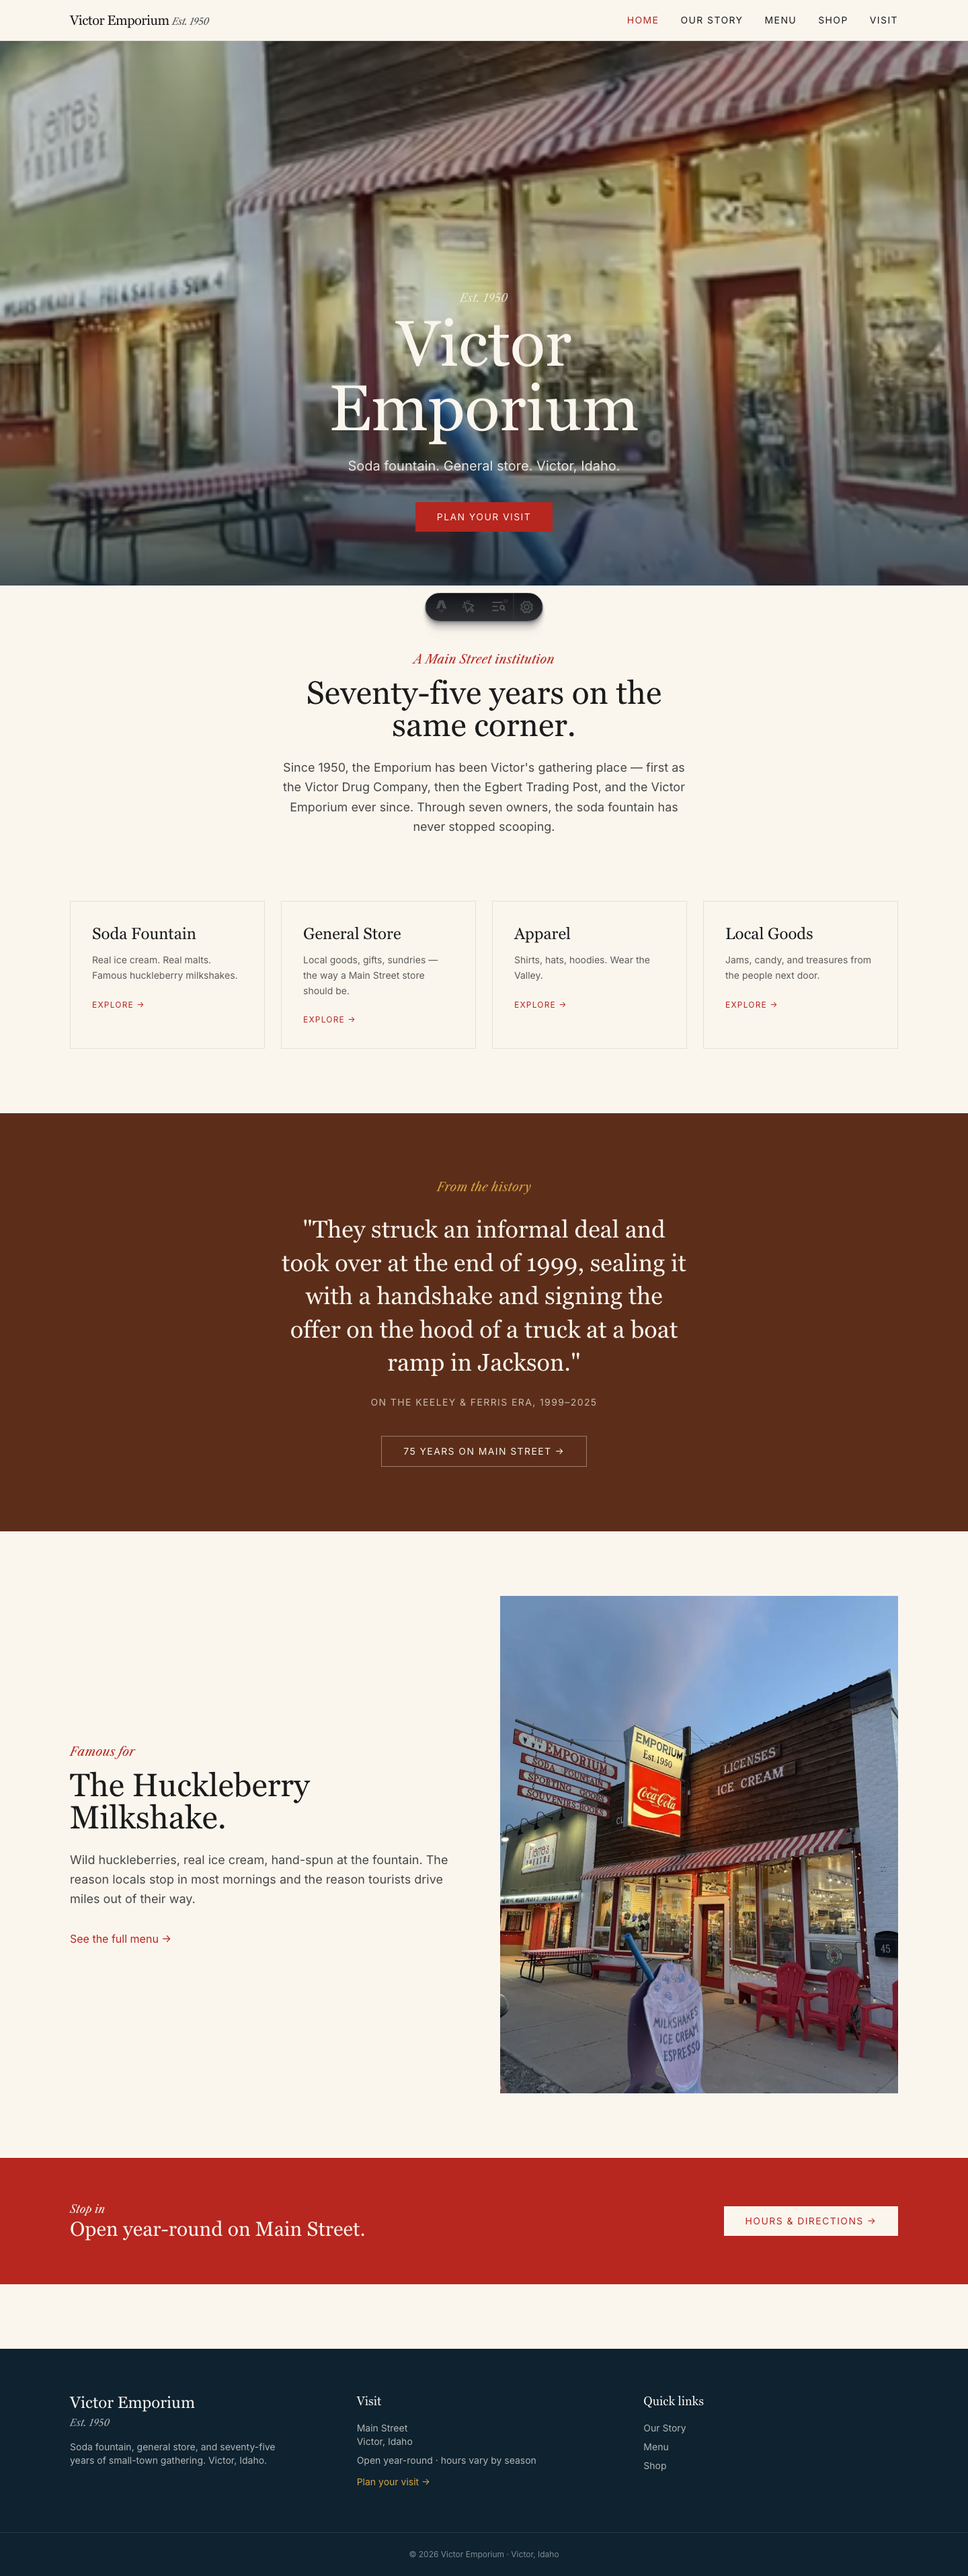
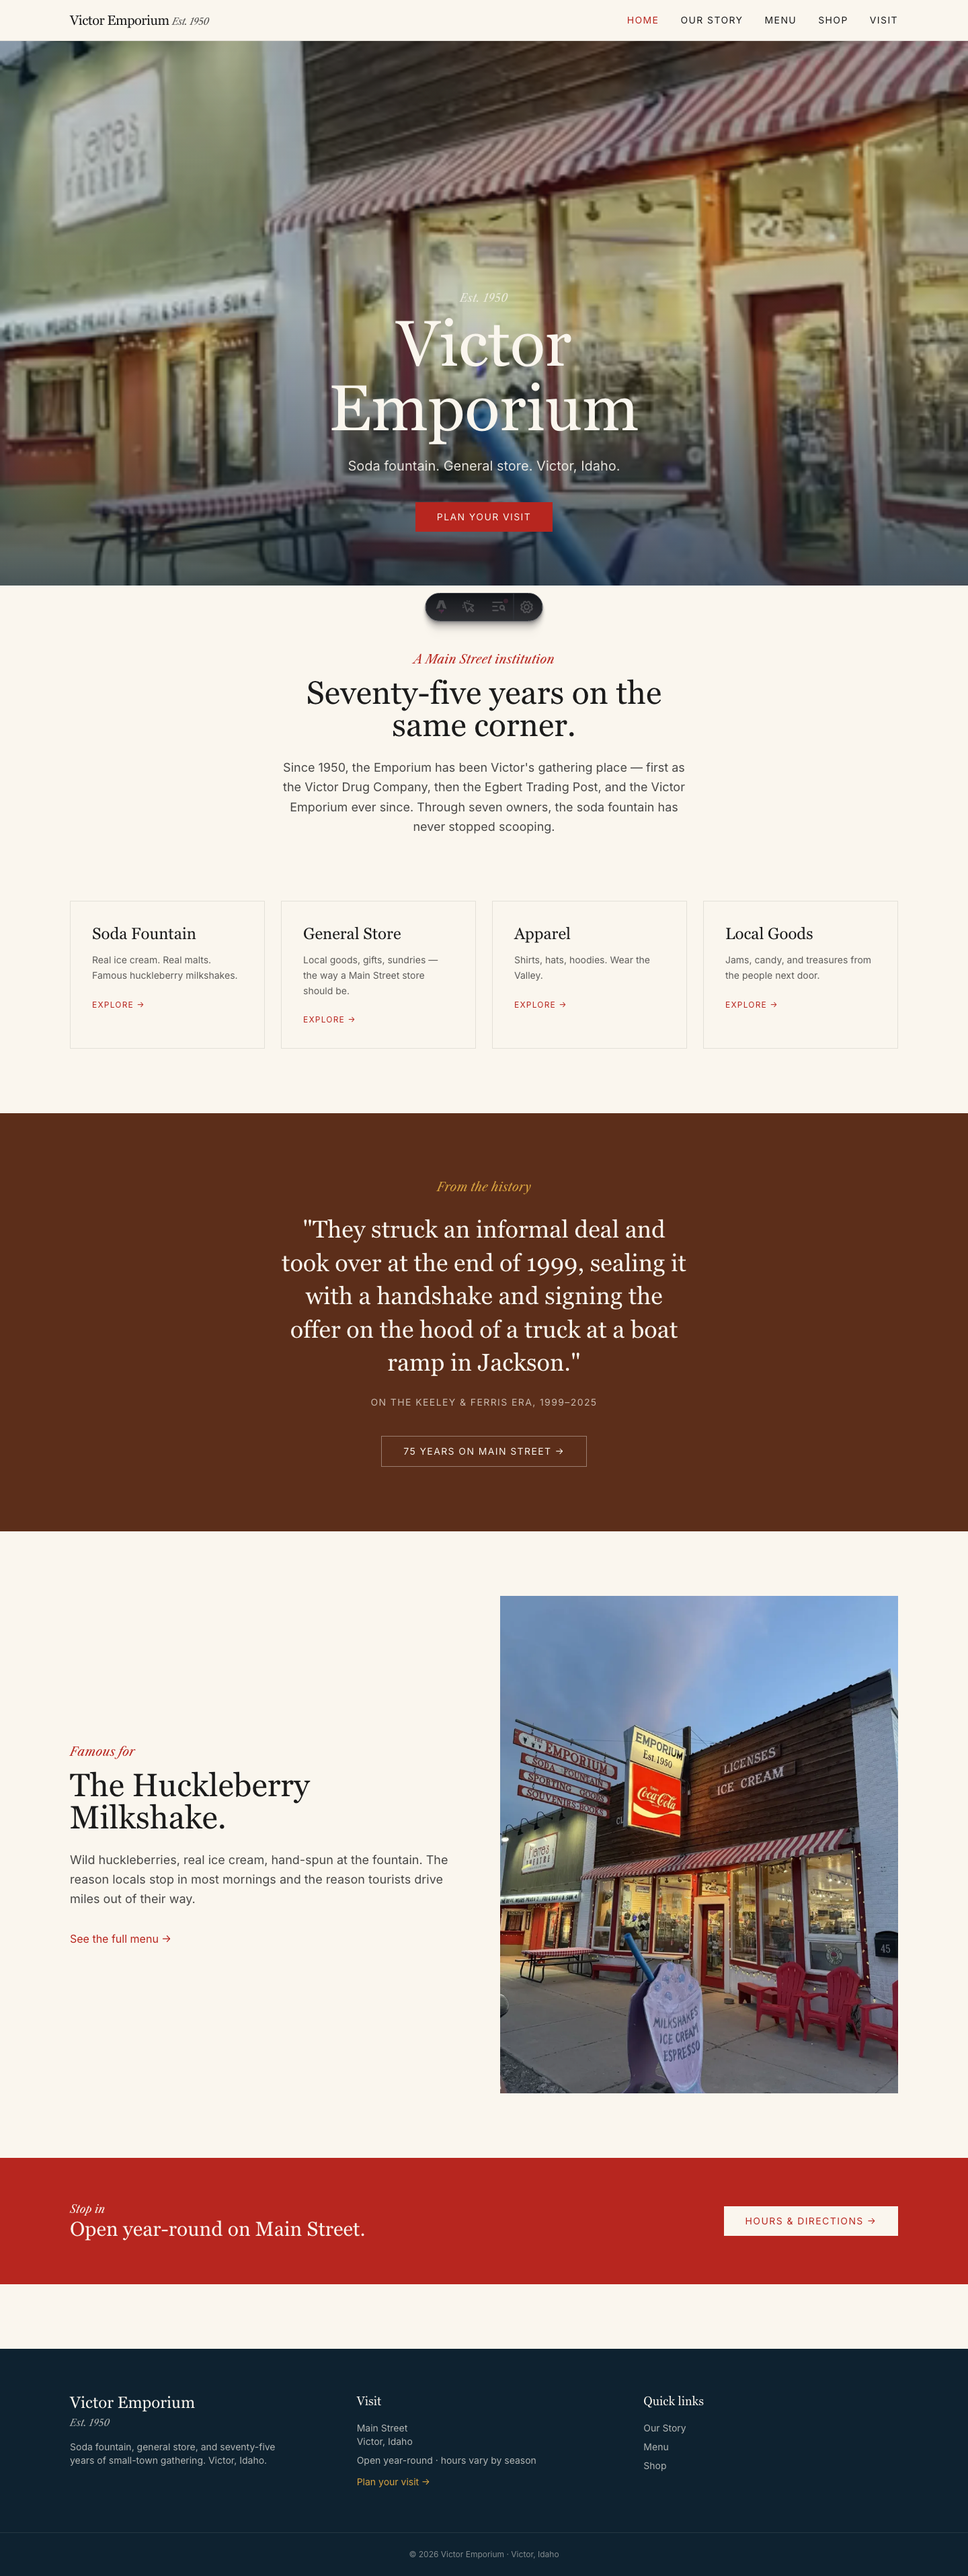
build: configure base path + github pages workflow
- Add src/utils/asset.ts helper that prefixes BASE_URL
- Set base: '/victor-emporium-website' in astro.config.mjs
- Wrap all hardcoded /asset and /route paths with asset() in components,
  pages, layouts, and React islands
- Update playwright baseURL and tests to use relative paths
- Add .github/workflows/deploy.yml: Astro build + actions/deploy-pages@v4

Changed region(s): [[0.0, 0.0, 1.0, 0.2484]]

diff --git a/src/components/TimelinePanel.tsx b/src/components/TimelinePanel.tsx
@@ -1,5 +1,6 @@
 import { motion } from 'motion/react';
 import type { Owner } from '../data/ownership';
+import { asset } from '../utils/asset';
 
 type Props = { owner: Owner; index: number };
 
@@ -16,7 +17,7 @@ export function TimelinePanel({ owner, index }: Props) {
       <div className={`grid md:grid-cols-2 gap-12 items-center ${isReversed ? 'md:[&>*:first-child]:order-2' : ''}`}>
         <div className={owner.imageStyle === 'archival' ? 'sepia-[0.4] saturate-50' : ''}>
           <img
-            src={owner.imagePath}
+            src={asset(owner.imagePath)}
             alt={owner.imageAlt}
             className="w-full h-auto aspect-[4/3] object-cover"
             loading="lazy"

diff --git a/tests/story.spec.ts b/tests/story.spec.ts
@@ -2,7 +2,7 @@ import { test, expect } from '@playwright/test';
 
 test.describe('Story page', () => {
   test.beforeEach(async ({ page }) => {
-    await page.goto('/story');
+    await page.goto('./story');
   });
 
   test('renders the hero', async ({ page }) => {
@@ -25,7 +25,7 @@ test.describe('Story page', () => {
   test('closing CTA links to /visit', async ({ page }) => {
     const cta = page.getByRole('link', { name: /plan your visit/i }).last();
     await expect(cta).toBeVisible();
-    await expect(cta).toHaveAttribute('href', '/visit');
+    await expect(cta).toHaveAttribute('href', /\/visit$/);
   });
 
   test('no console errors', async ({ page }) => {

diff --git a/tests/screenshots.spec.ts b/tests/screenshots.spec.ts
@@ -2,11 +2,11 @@ import { test } from '@playwright/test';
 import path from 'node:path';
 
 const pages = [
-  { path: '/', name: 'home' },
-  { path: '/story', name: 'story' },
-  { path: '/menu', name: 'menu' },
-  { path: '/shop', name: 'shop' },
-  { path: '/visit', name: 'visit' },
+  { path: './', name: 'home' },
+  { path: './story', name: 'story' },
+  { path: './menu', name: 'menu' },
+  { path: './shop', name: 'shop' },
+  { path: './visit', name: 'visit' },
 ];
 
 const outDir = path.join(import.meta.dirname, '..', 'screenshots');

diff --git a/tests/shop.spec.ts b/tests/shop.spec.ts
@@ -2,7 +2,7 @@ import { test, expect } from '@playwright/test';
 
 test.describe('Shop page', () => {
   test.beforeEach(async ({ page }) => {
-    await page.goto('/shop');
+    await page.goto('./shop');
   });
 
   test('renders hero', async ({ page }) => {
@@ -16,7 +16,7 @@ test.describe('Shop page', () => {
   });
 
   test('category anchors work', async ({ page }) => {
-    await page.goto('/shop#fishing');
+    await page.goto('./shop#fishing');
     await expect(page.locator('#fishing')).toBeInViewport();
   });
 

diff --git a/src/utils/asset.ts b/src/utils/asset.ts
@@ -1,0 +1,9 @@
+// Prefixes a root-relative path with the configured base URL so assets resolve
+// correctly when the site is served from a subpath (e.g. GitHub Pages).
+// Pass paths like '/images/foo.jpg'; the leading slash is preserved.
+export function asset(path: string): string {
+  const base = import.meta.env.BASE_URL || '/';
+  const baseClean = base.endsWith('/') ? base.slice(0, -1) : base;
+  const pathClean = path.startsWith('/') ? path : `/${path}`;
+  return `${baseClean}${pathClean}`;
+}

diff --git a/playwright.config.ts b/playwright.config.ts
@@ -4,12 +4,12 @@ export default defineConfig({
   testDir: './tests',
   timeout: 30_000,
   use: {
-    baseURL: 'http://localhost:4321',
+    baseURL: 'http://localhost:4321/victor-emporium-website/',
     headless: true,
   },
   webServer: {
     command: 'npm run dev',
-    url: 'http://localhost:4321',
+    url: 'http://localhost:4321/victor-emporium-website/',
     reuseExistingServer: !process.env.CI,
     timeout: 60_000,
   },

diff --git a/tests/visit.spec.ts b/tests/visit.spec.ts
@@ -2,7 +2,7 @@ import { test, expect } from '@playwright/test';
 
 test.describe('Visit page', () => {
   test.beforeEach(async ({ page }) => {
-    await page.goto('/visit');
+    await page.goto('./visit');
   });
 
   test('renders hero with address', async ({ page }) => {

diff --git a/tests/home.spec.ts b/tests/home.spec.ts
@@ -2,7 +2,7 @@ import { test, expect } from '@playwright/test';
 
 test.describe('Home page', () => {
   test.beforeEach(async ({ page }) => {
-    await page.goto('/');
+    await page.goto('./');
   });
 
   test('renders hero with wordmark and CTA', async ({ page }) => {

diff --git a/tests/menu.spec.ts b/tests/menu.spec.ts
@@ -2,7 +2,7 @@ import { test, expect } from '@playwright/test';
 
 test.describe('Menu page', () => {
   test.beforeEach(async ({ page }) => {
-    await page.goto('/menu');
+    await page.goto('./menu');
   });
 
   test('renders hero and feature', async ({ page }) => {
